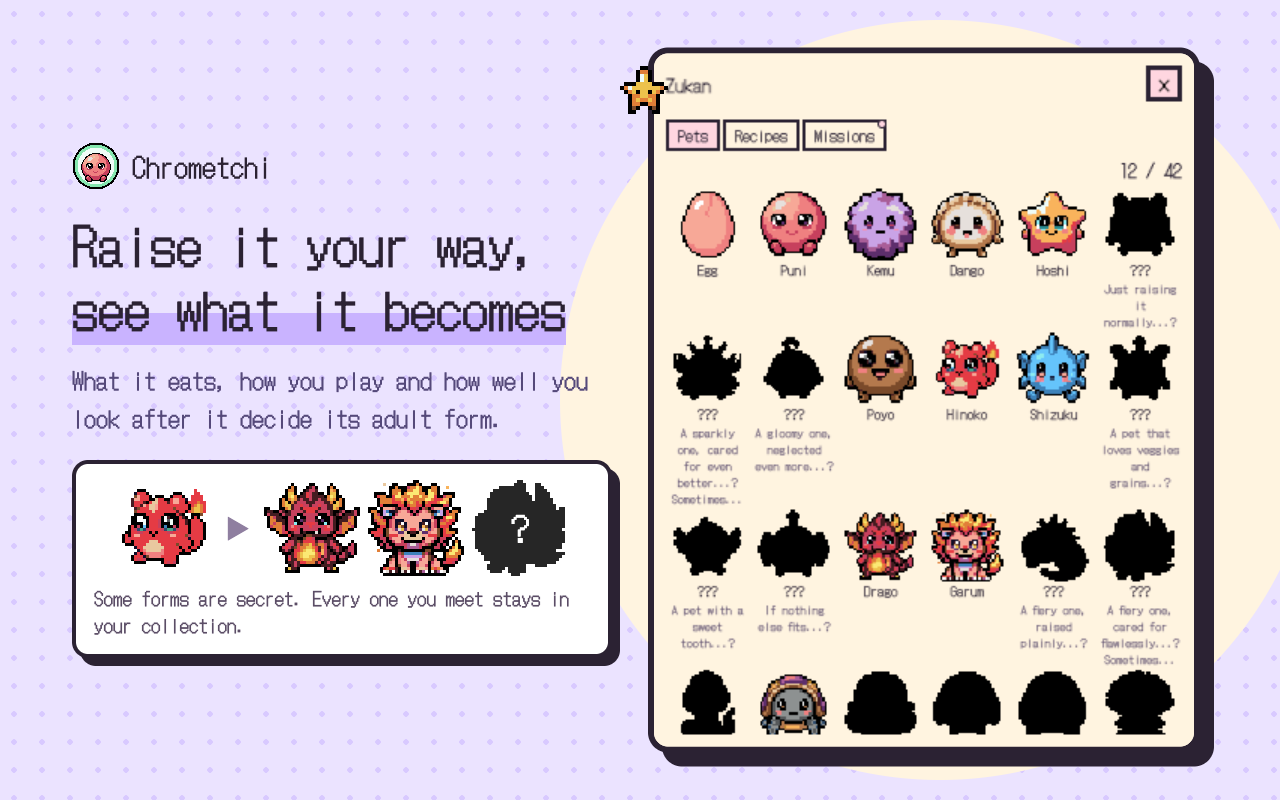
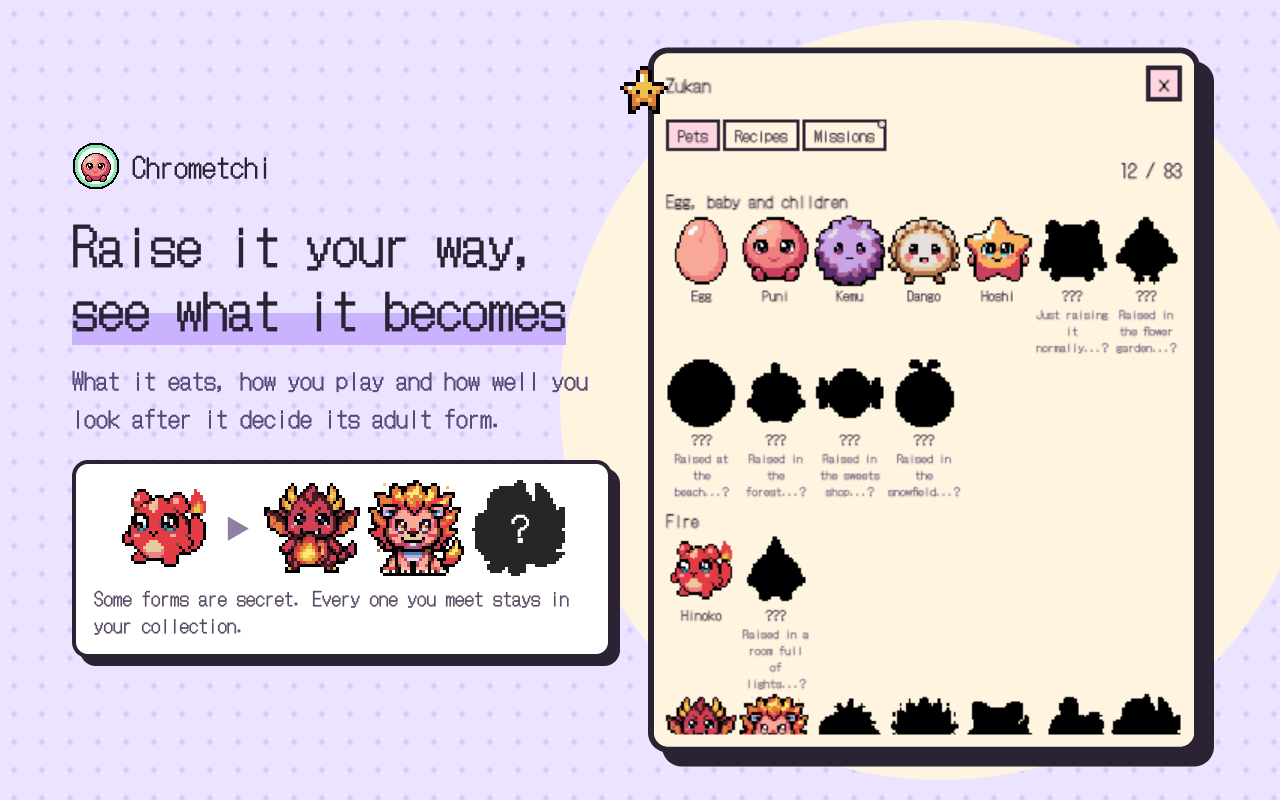
docs: describe growing up and the 83 forms

Changed region(s): [[0.5, 0.2188, 0.9375, 0.9375], [0.9062, 0.1875, 0.9375, 0.2188]]

diff --git a/README.md b/README.md
@@ -26,9 +26,10 @@ Japanese) is in [`docs/store/listing.md`](docs/store/listing.md), and the privac
 - **Rooms**: switch between eleven rooms from the decorate screen; new rooms come from rewards.
 - **Furniture**: buy 28 pieces of furniture in the shop and place them in each room's slots from the decorate screen.
 - **Dress-up**: buy 25 accessories and dress your pet's head, face and neck from the decorate screen.
+- **Growing up**: the room your pet grows up in, the furniture in it, what it wears and morning care all open new paths in its evolution.
 - **Time only runs while Chrome is open.** Your pet sleeps at night (configurable) and needs the lights off.
 - **Warnings before death**: notifications and an in-popup banner tell you when life is in danger.
-- **Zukan**: a collection of every form you have discovered, memories of past pets, your recipe book and your missions.
+- **Zukan**: a collection of every form you have discovered, 83 forms grouped by family, memories of past pets, your recipe book and your missions.
 - **Walks on web pages** (optional): your pet strolls along the bottom of the pages you browse. Click it to hear how it is doing, drag it aside, or hide it on a site. Site access is asked for only when you turn this on.
 - English and Japanese, optional chiptune sound effects (off by default).
 
